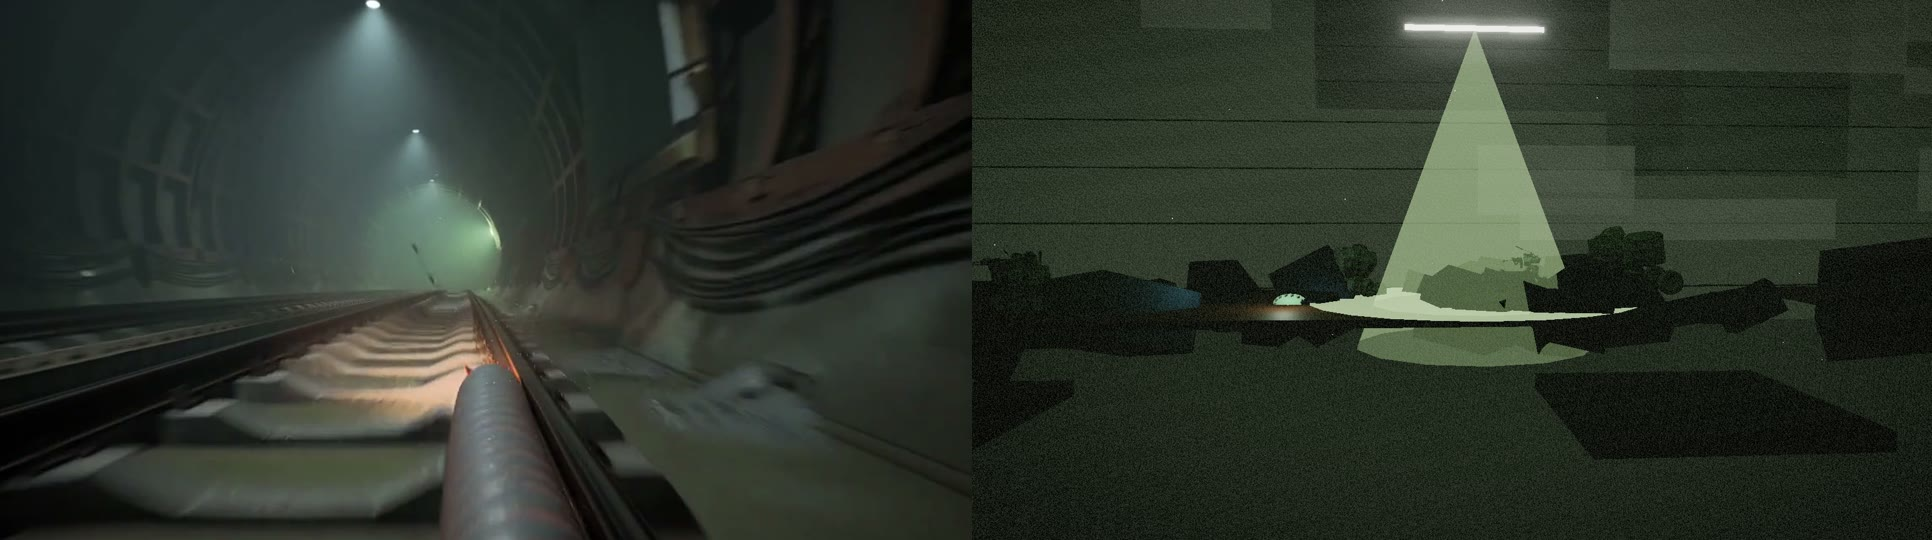
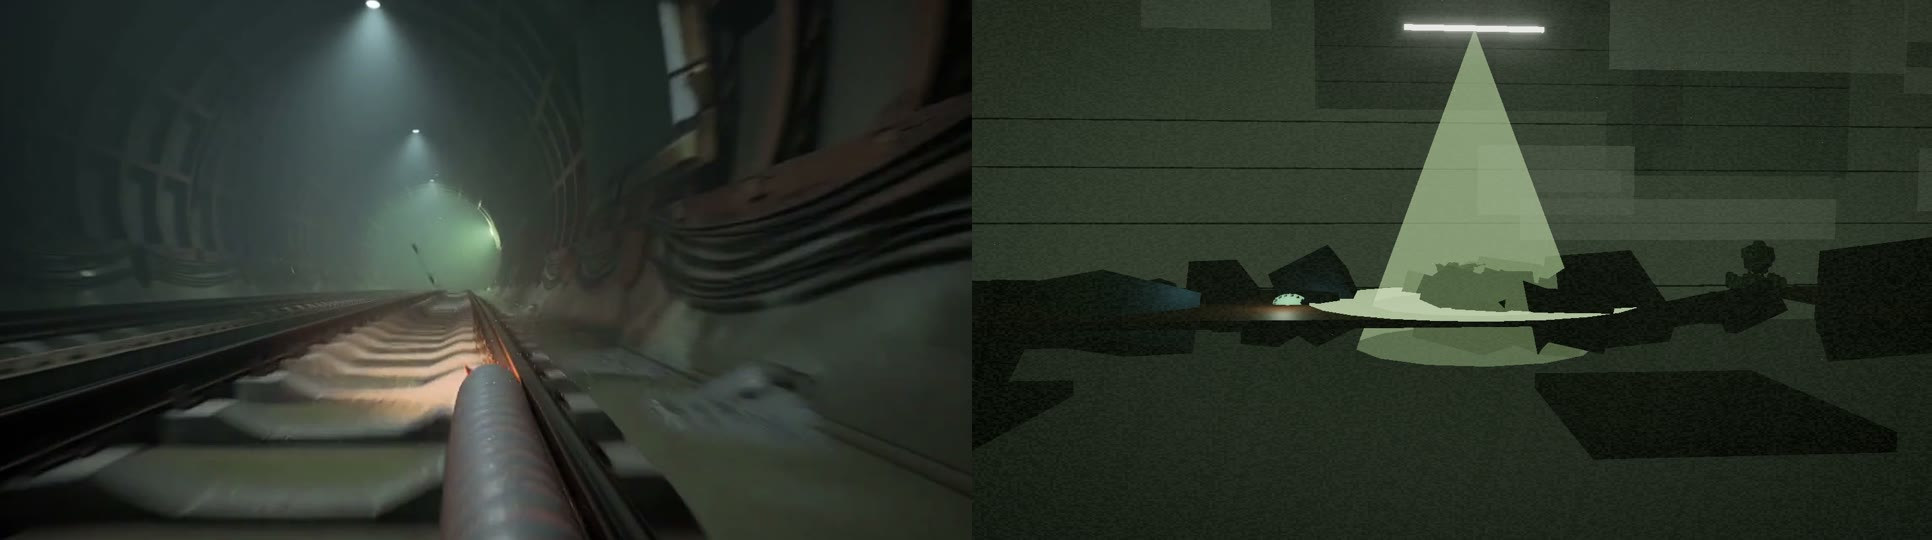
v0.0.1.21 fix(visual): coarse low grain and fewer dust particles; SPEC defines the gameplay type

diff --git a/games/pingchuan-rail/game/index.html b/games/pingchuan-rail/game/index.html
@@ -167,13 +167,13 @@ scene.add(wormLight);
 
 const composer = new EffectComposer(renderer);
 composer.addPass(new RenderPass(scene, camera));
-composer.addPass(new UnrealBloomPass(new THREE.Vector2(innerWidth, innerHeight), 0.55, 0.7, 0.72));
+composer.addPass(new UnrealBloomPass(new THREE.Vector2(innerWidth, innerHeight), 0.42, 0.7, 0.78));
 const gradePass = new ShaderPass({
   uniforms: {
     tDiffuse: { value: null }, uTime: { value: 0 },
     uLift: { value: new THREE.Vector3(0.012, 0.014, 0.010) },
     uGain: { value: new THREE.Vector3(1.02, 1.03, 0.97) },
-    uVignette: { value: 0.45 }, uGrain: { value: 0.045 },
+    uVignette: { value: 0.42 }, uGrain: { value: 0.011 },
   },
   vertexShader: 'varying vec2 vUv; void main(){ vUv = uv; gl_Position = projectionMatrix * modelViewMatrix * vec4(position,1.0); }',
   fragmentShader: `
@@ -183,7 +183,8 @@ const gradePass = new ShaderPass({
       vec3 color = texture2D(tDiffuse, vUv).rgb;
       color = color * uGain + uLift;
       color *= 1.0 - uVignette * smoothstep(0.35, 0.95, length(vUv - 0.5) * 1.25);
-      color += (hash(vUv * 999.0 + uTime) - 0.5) * uGrain;
+      // 粗颗粒：先量化到 ~320 格再取噪声，避免逐像素白点像雪花
+      color += (hash(floor(vUv * 320.0) + floor(uTime * 12.0)) - 0.5) * uGrain;
       gl_FragColor = vec4(color, 1.0);
     }`,
 });
@@ -334,7 +335,7 @@ const parallaxLayers = [];
 });
 
 // 空气粉尘：只在光束附近可见，负责"体积感"
-const dustCount = 420;
+const dustCount = 240;
 const dustGeometry = new THREE.BufferGeometry();
 const dustPositions = new Float32Array(dustCount * 3);
 for (let index = 0; index < dustCount; index += 1) {
@@ -344,7 +345,7 @@ for (let index = 0; index < dustCount; index += 1) {
 }
 dustGeometry.setAttribute('position', new THREE.BufferAttribute(dustPositions, 3));
 const dustField = new THREE.Points(dustGeometry, new THREE.PointsMaterial({
-  color: 0xe8e3d6, size: 0.06, transparent: true, opacity: 0.7, depthWrite: false,
+  color: 0xe8e3d6, size: 0.04, transparent: true, opacity: 0.38, depthWrite: false,
 }));
 scene.add(dustField);
 

diff --git a/games/pingchuan-rail/SPEC.md b/games/pingchuan-rail/SPEC.md
@@ -40,6 +40,22 @@
 **威胁**：竖井顶的东风-08 火控仍在扫——一条缓慢摆动的**扫描锥**（惨绿）。被照到 1.5 秒 = 退回上一个站台节点。
 它不追、不射，只扫；节奏因此可预测、可学习。
 
+## 3.5 玩法类型（2026-11-16 定档：平台跳跃 + 惯性 + 扫描压力）
+
+三种候选的取舍：
+
+| 类型 | 自由度 | 与本作机制的契合 | 风险 | 结论 |
+|---|---|---|---|---|
+| 跑酷（自动前进） | 低 | 差：贴壁爬、上下换面、竖井攀爬在「自动前进」下全部退化成 QTE | 关卡只剩时机判断，世界观沦为背景 | ❌ |
+| 赛车（按键前进、松手停） | 中 | 中：适合隧道直线与惯性，但本作没有赛道与圈速结构 | 玩家会问「为什么不能左右」 | ❌ 不作为类型 |
+| **平台跳跃（自由左右上下）** | **最高** | **最好**：地/墙/顶三段切换、蓄力弹射、竖井攀爬都成立 | 玩家可能磨蹭、关卡显得空 | ✅ **采用** |
+
+但**吸收**另外两者的长处：
+
+1. **惯性手感**（来自赛车）：按住方向持续加速，松开后金属面滑行、粉尘上急停——已有的表面差异正好承载它；
+2. **节奏压力**（来自跑酷）：不强制前进，而是用**扫描锥**做软计时——被扫到退回检查点；后期可加「从后方推进的粉尘潮」。
+
+一句话：**自由移动 + 惯性 + 软性推进压力**。想停可以停，但停下来会被扫到。
 ## 4. 机位（已定：侧视 2.5D）
 
 **决策与理由**（2026-11-16，对比三种候选）：
